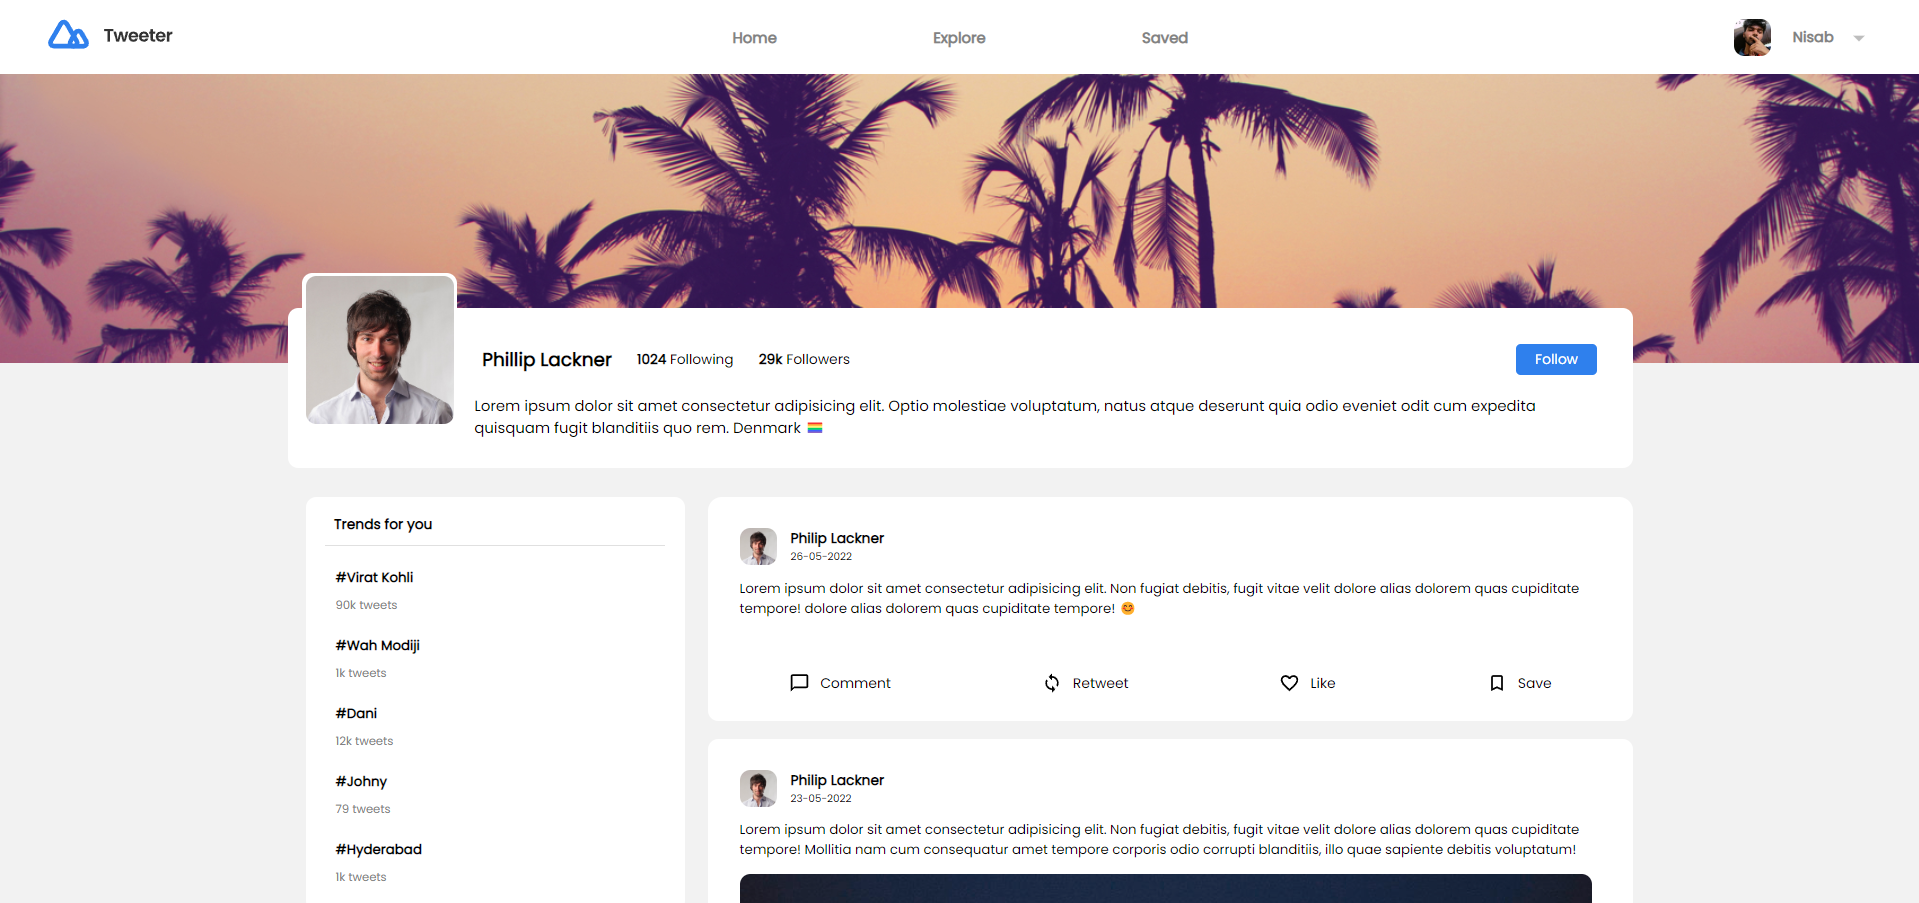
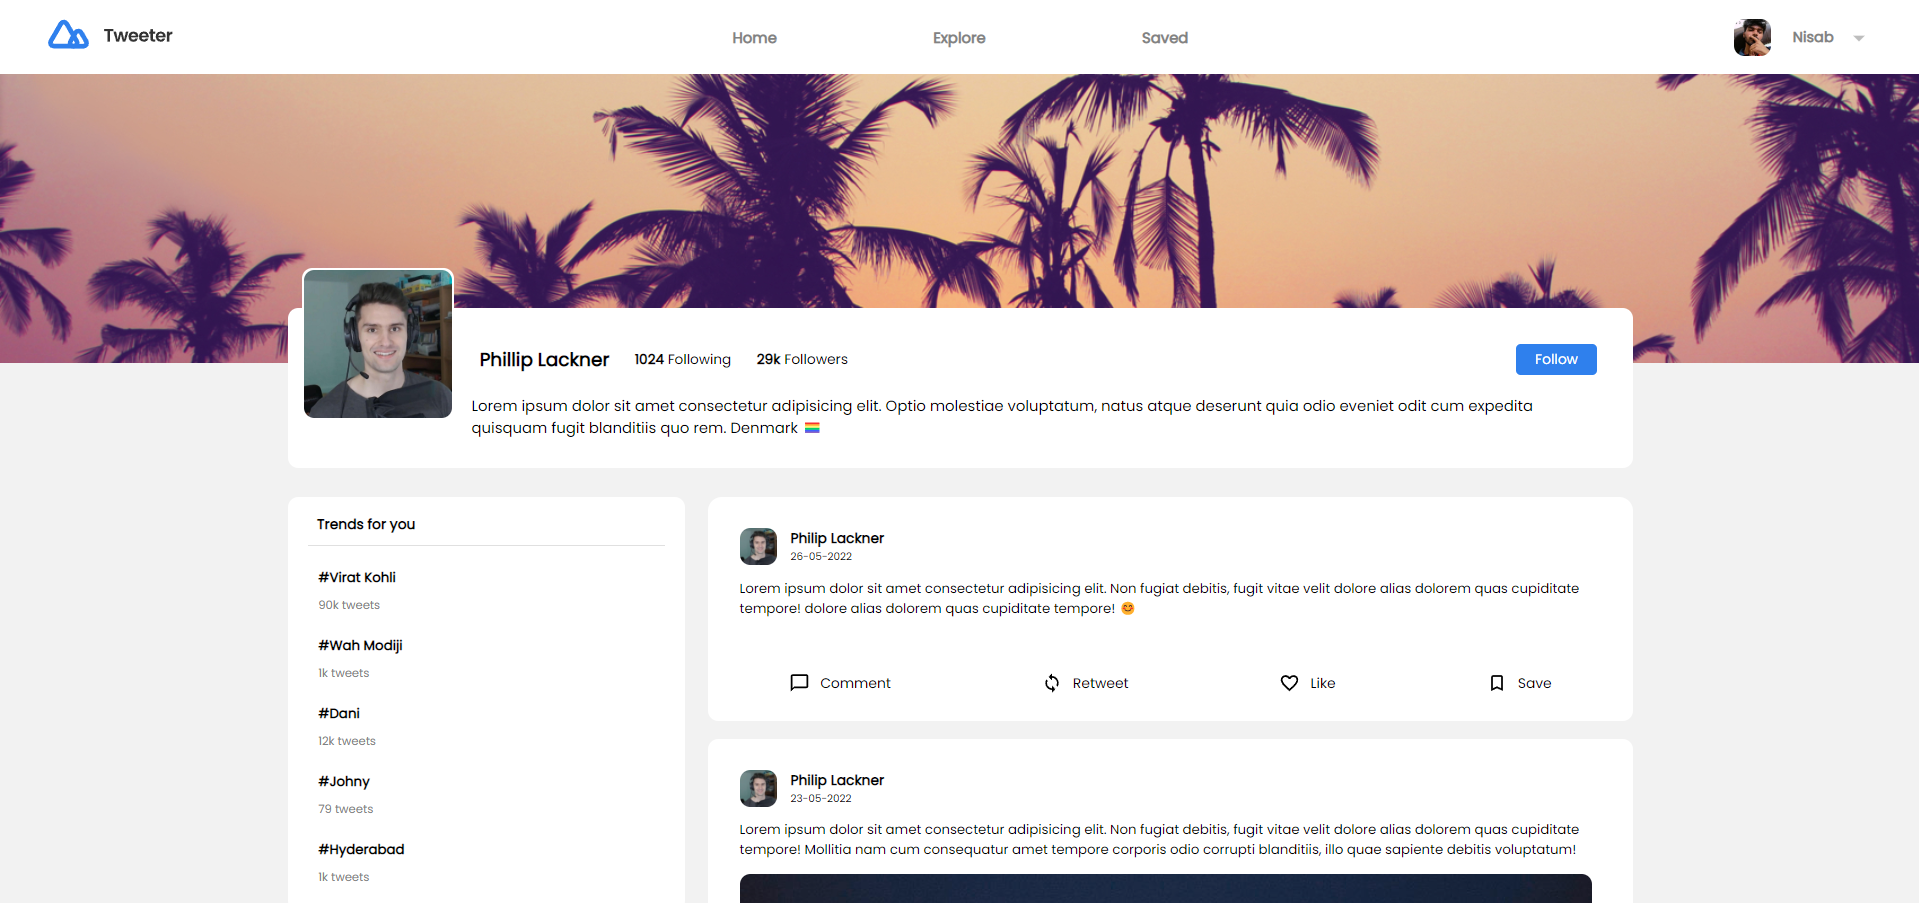
Added client routings and login req and server side routes

diff --git a/app/client/src/pages/Login.js b/app/client/src/pages/Login.js
@@ -1,0 +1,57 @@
+import { TextField } from '@mui/material'
+import React, { useState } from 'react'
+import svgico from '../assets/tweeter.svg'
+import toast, { Toaster } from 'react-hot-toast';
+import { Link } from 'react-router-dom';
+
+
+export default function Login(props) {
+    const [email, setEmail] = useState('')
+    const [password, setPassword] = useState('')
+    const LoginPage = () => {
+        if (email==="") {
+            toast.error('Enter Email');
+            return
+        }
+        if (password==="") {
+            toast.error('Enter Password');
+            return
+        }
+        props.login(email, password)
+    }
+    return (
+        <div className='loginpage container' style={{ height: '85vh', display: 'flex', justifyContent: 'center', alignItems: 'center', }}>
+            <Toaster />
+            <div className="loginsection" style={{ backgroundColor: 'white', display: 'flex', flexDirection: 'column', margin: 'auto', padding: '19px', borderRadius: '9px' }}>
+                <img style={{ width: '150px', margin: 'auto', marginTop: '1vh' }} src={svgico} alt="" />
+                <TextField
+                    onChange={e => setEmail(e.target.value)}
+                    value={email}
+                    type="mail"
+                    hiddenLabel
+                    id="filled-hidden-label-small"
+                    placeholder='Email'
+                    variant="outlined"
+                    inputProps={{ style: { fontSize: '13.75px', fontFamily: 'Poppins' } }}
+                    size="small"
+                    style=
+                    {{ width: '340px', fontSize: '12.5px', marginTop: '3.5vh' }}
+                />
+                <TextField
+                    onChange={e => setPassword(e.target.value)}
+                    value={password}
+                    type="password"
+                    hiddenLabel
+                    id="filled-hidden-label-small"
+                    placeholder='Password'
+                    variant="outlined"
+                    inputProps={{ style: { fontSize: '13.75px', fontFamily: 'Poppins' } }}
+                    size="small"
+                    style={{ width: '340px', fontSize: '12.5px', marginTop: '3vh' }}
+                />
+                <button onClick={(e)=>{LoginPage()}} style={{ backgroundColor: '#2F80ED', color: 'white', border: 'none', outline: 'none', height: '35px', width: '85px', cursor: 'pointer', borderRadius: '4px', fontFamily: 'Poppins', fontSize: '12px', margin: 'auto', marginTop: '3vh', marginBottom: '1.2vh' }}>Login</button>
+                <Link to="/signup" style={{textDecoration:'none',color:'inherit',fontSize:'12px',margin:'auto'}}>Don't have an account?</Link>
+            </div>
+        </div>
+    )
+}

diff --git a/app/client/src/App.js b/app/client/src/App.js
@@ -10,19 +10,63 @@ import Explore from './pages/Explore'
 import Saved from './pages/Saved'
 import Profile from './pages/Profile';
 import Account from './pages/Account';
+import { useEffect, useState } from 'react';
+import Login from './pages/Login';
+import {baseurl} from './apicalls'
 
 function App() {
+  const [uid, setUid] = useState(null)
+  async function login(email, password) {
+    if (email && password) {
+      const data = { email: email, password: password };
+      fetch(`${baseurl}auth/login`, {
+        method: 'POST',
+        headers: {
+          'Content-Type': 'application/json',
+        },
+        body: JSON.stringify(data),
+      })
+        .then(response => response.json())
+        .then(data => {
+          console.log('Success:', data);
+          localStorage.setItem('uid',data.uid)
+          setUid(data.uid)
+        })
+        .catch((error) => {
+          console.error('Error:', error);
+        });
+    }
+  }
+  useEffect(() => {
+    if(localStorage.getItem('uid')){
+      setUid(localStorage.getItem('uid'))
+    }
+  }, [])
+
   return (
     <BrowserRouter>
       <div className="App">
-        <Navbar />
-        <Routes>
-          <Route path="/" element={<Home></Home>} />
-          <Route path="/explore" element={<Explore />} />
-          <Route path="/saved" element={<Saved/>} />
-          <Route path="/profile" element={<Profile/>} />
-          <Route path="/edit" element={<Account/>} />
-        </Routes>
+        {
+          uid ? (
+            <>
+              <Navbar />
+              <Routes>
+                <Route path="/" element={<Home></Home>} />
+                <Route path="/explore" element={<Explore />} />
+                <Route path="/saved" element={<Saved />} />
+                <Route path="/profile" element={<Profile />} />
+                <Route path="/edit" element={<Account />} />
+              </Routes>
+            </>
+          ) : (
+            <>
+              <Routes>
+                <Route path="/*" element={<Login login={login} />} />
+              </Routes>
+            </>
+          )
+        }
+
 
       </div>
     </BrowserRouter>

diff --git a/app/server/routes/post.js b/app/server/routes/post.js
@@ -10,7 +10,8 @@ router.post('/newpost', async (req, res) => {
             uid: req.body.uid,
             post_id: postid(),
             caption: req.body.caption,
-            image: req.body.image ? req.body.image : ""
+            image: req.body.image ? req.body.image : "",
+            hashtag: req.body.hashtag && req.body.hashtag.length != 0 ? req.body.hashtag : []
         })
         const res = await newpost.save()
         res.status(200).send({ status: "success" })
@@ -47,7 +48,7 @@ router.get('/:id', async (req, res) => {
 
 
 //user post
-router.get('/user/:uid', async (req, res) => {
+router.get('/:uid', async (req, res) => {
     try {
         const post = await postModel.find({ uid: req.params.uid });
         res.send(post)
@@ -70,7 +71,21 @@ router.delete('/:id', async (req, res) => {
     // }
 })
 
+//like post
 
 
+
+//unlike post
+
+
+
+//comment
+
+
+
+//retweet
+
+
+//timeline posts
 
 module.exports = router

diff --git a/app/server/server.js b/app/server/server.js
@@ -1,21 +1,26 @@
 const express = require('express')
 const mongoose = require('mongoose')
-const authRotes=require('./routes/auth')
-const postRoutes=require('./routes/post')
-// var bcrypt = require('bcryptjs');
+const authRotes = require('./routes/auth')
+const postRoutes = require('./routes/post')
+const userRoutes = require('./routes/user')
+var cors = require('cors')
+const dotenv = require('dotenv').config()
 
 const app = express();
 app.use(express.json())
+app.use(cors())
 
-mongoose.connect('mongodb://localhost:27017/tweeter').then(() => {
+
+mongoose.connect(process.env.mongodb).then(() => {
     console.log("connected");
 }).catch(err => {
     console.log(err);
 })
 
-app.use('/auth',authRotes)
+app.use('/auth', authRotes)
 
-app.use('/post',postRoutes)
+app.use('/post', postRoutes)
 
+app.use('/user', userRoutes)
 
 app.listen(5000)

diff --git a/app/client/src/components/Tags.js b/app/client/src/components/Tags.js
@@ -1,8 +1,8 @@
 import React from 'react'
 
-export default function Tags() {
+export default function Tags(props) {
     return (
-        <div className='tags' style={{ backgroundColor: 'white', padding: '11px', borderRadius: '9px', display: 'flex', flexDirection: 'column', marginLeft: '15px' }}>
+        <div className='tags' style={{ backgroundColor: 'white', padding: '11px', borderRadius: '9px', display: 'flex', flexDirection: 'column', marginLeft: props.marginleft }}>
             <div className="header" style={{ borderBottom: '1px solid #E0E0E0', width: '96.25%', margin: 'auto' }}>
                 <h6 style={{ margin: '8px', marginTop: '4px', marginBottom: '8px', fontSize: '12px', }}>Trends for you</h6>
             </div>

diff --git a/app/client/src/components/Whotofollow.js b/app/client/src/components/Whotofollow.js
@@ -1,8 +1,8 @@
 import React from 'react'
 
-export default function whotofollow() {
+export default function whotofollow(props) {
     return (
-        <div style={{ backgroundColor: 'white', padding: '11px', borderRadius: '9px', display: 'flex', flexDirection: 'column', marginLeft: '15px', marginTop: '19px' }}>
+        <div style={{ backgroundColor: 'white', padding: '11px', borderRadius: '9px', display: 'flex', flexDirection: 'column', marginLeft: props.marginleft, marginTop: '19px' }}>
             <div className="header" style={{ width: '96.25%', margin: 'auto' }}>
                 <h6 style={{ margin: '8px', marginTop: '4px', marginBottom: '8px', fontSize: '12px', }}>Who to follow</h6>
             </div>

diff --git a/app/client/src/pages/Profile.js b/app/client/src/pages/Profile.js
@@ -31,8 +31,8 @@ export default function Profile() {
                 </div>
             </div>
             <div className="container">
-                <div className="right_container">
-                    <Tags />
+                <div className="right_container" style={{marginLeft:'0'}}>
+                    <Tags marginleft="0px" />
                 </div>
                 <div className="left_container" style={{marginLeft:'20px'}}>
                     <div className="posts">

diff --git a/app/server/routes/user.js b/app/server/routes/user.js
@@ -1,0 +1,15 @@
+const express = require('express')
+const router = express.Router();
+const {signUpModel:userModel} = require('../models/Auth')
+
+
+router.get('/:uid', async (req, res) => {
+    try {
+        const result = await userModel.findOne({ uid: req.params.uid })
+        res.status(200).send(result)
+    } catch (err) {
+        res.status(400).send(err)
+    }
+})
+
+module.exports = router

diff --git a/app/client/src/pages/Explore.js b/app/client/src/pages/Explore.js
@@ -6,8 +6,8 @@ export default function Explore() {
   return (
     <div className="container">
       <div className="right_container" style={{marginLeft:0,marginRight:'15px'}}>
-        <Tags />
-        <Whotofollow />
+        <Tags marginleft="0px" />
+        <Whotofollow marginleft="0px" />
       </div>
       <div className="left_container">
         <div className="posts" style={{}}>

diff --git a/app/server/models/Post.js b/app/server/models/Post.js
@@ -2,12 +2,10 @@ const mongoose = require('mongoose')
 const postschema = new mongoose.Schema({
     uid: {
         type: String,
-        required: true
     },
     post_id: {
         type: String,
         unique: true,
-        required: true
     },
     likes: {
         type: Array,

diff --git a/app/client/src/pages/Home.js b/app/client/src/pages/Home.js
@@ -14,8 +14,8 @@ function Home() {
         </div>
       </div>
       <div className="right_container">
-        <Tags />
-        <Whotofollow />
+        <Tags marginleft="15px" />
+        <Whotofollow marginleft="15px" />
       </div>
     </div>
   )

diff --git a/app/client/src/pages/Saved.js b/app/client/src/pages/Saved.js
@@ -12,7 +12,7 @@ function Saved() {
         </div>
       </div>
       <div className="right_container">
-        <Tags />
+        <Tags marginleft="15px" />
       </div>
     </div>
   )
